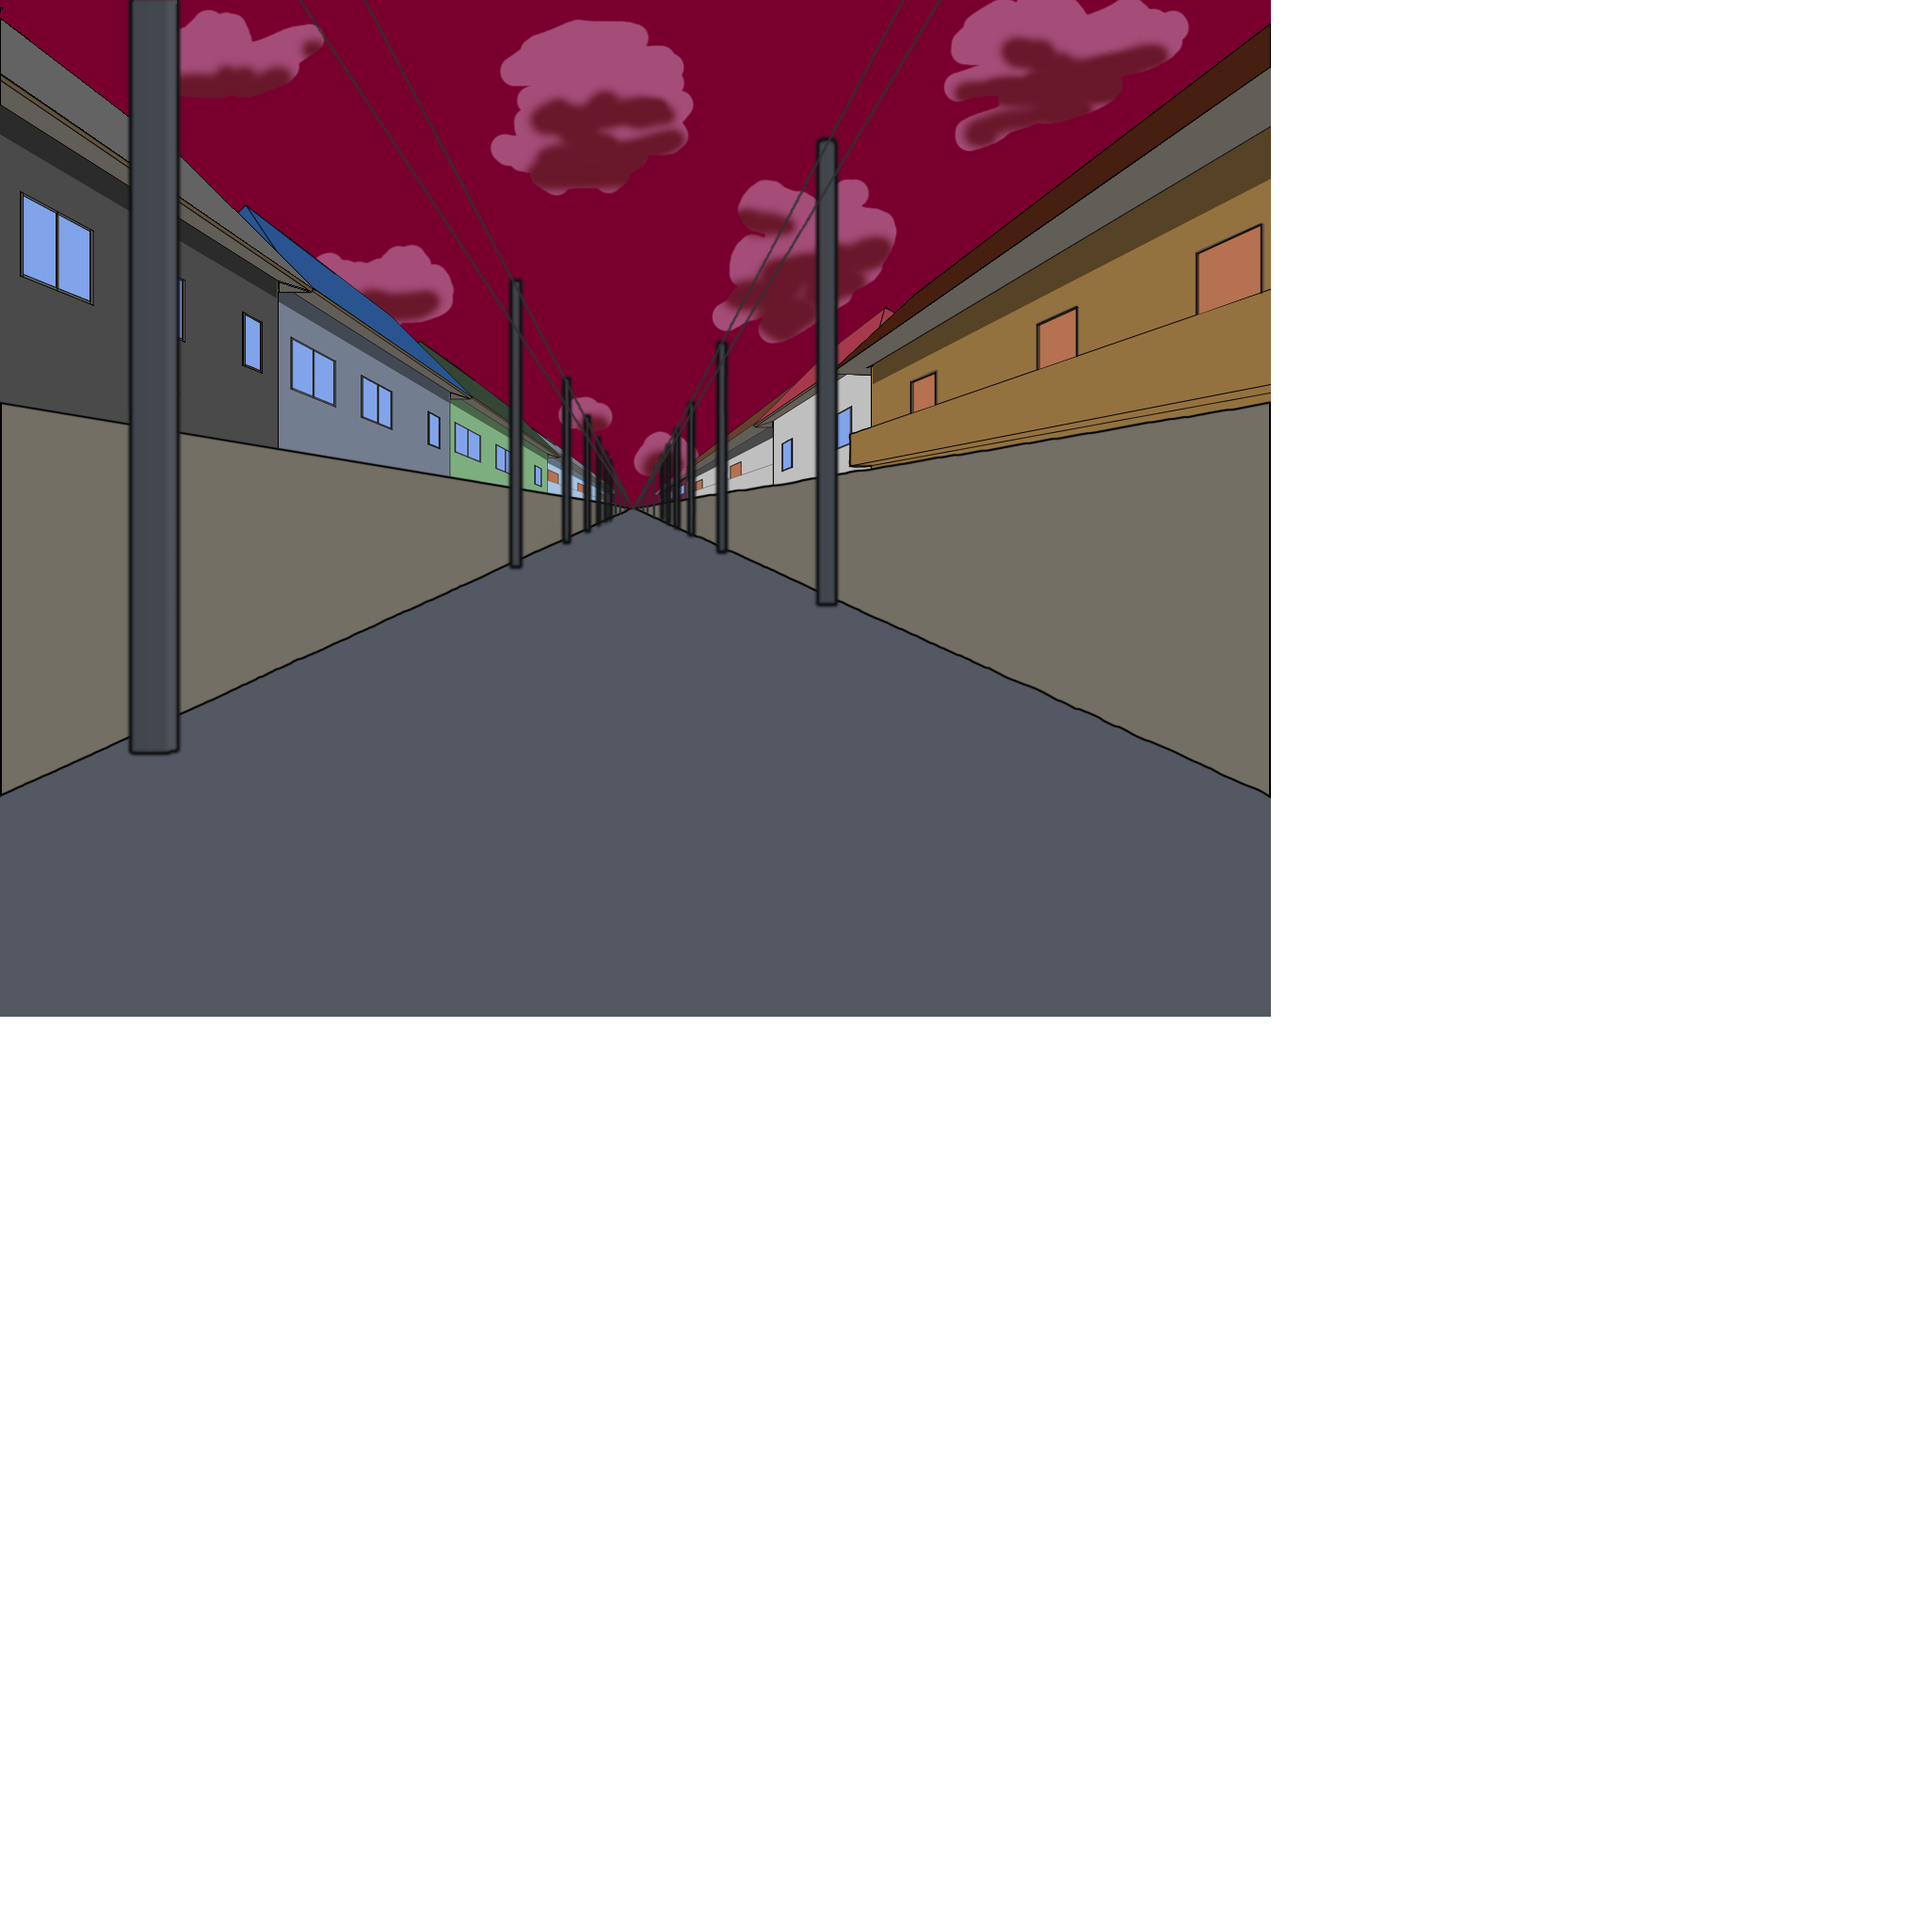
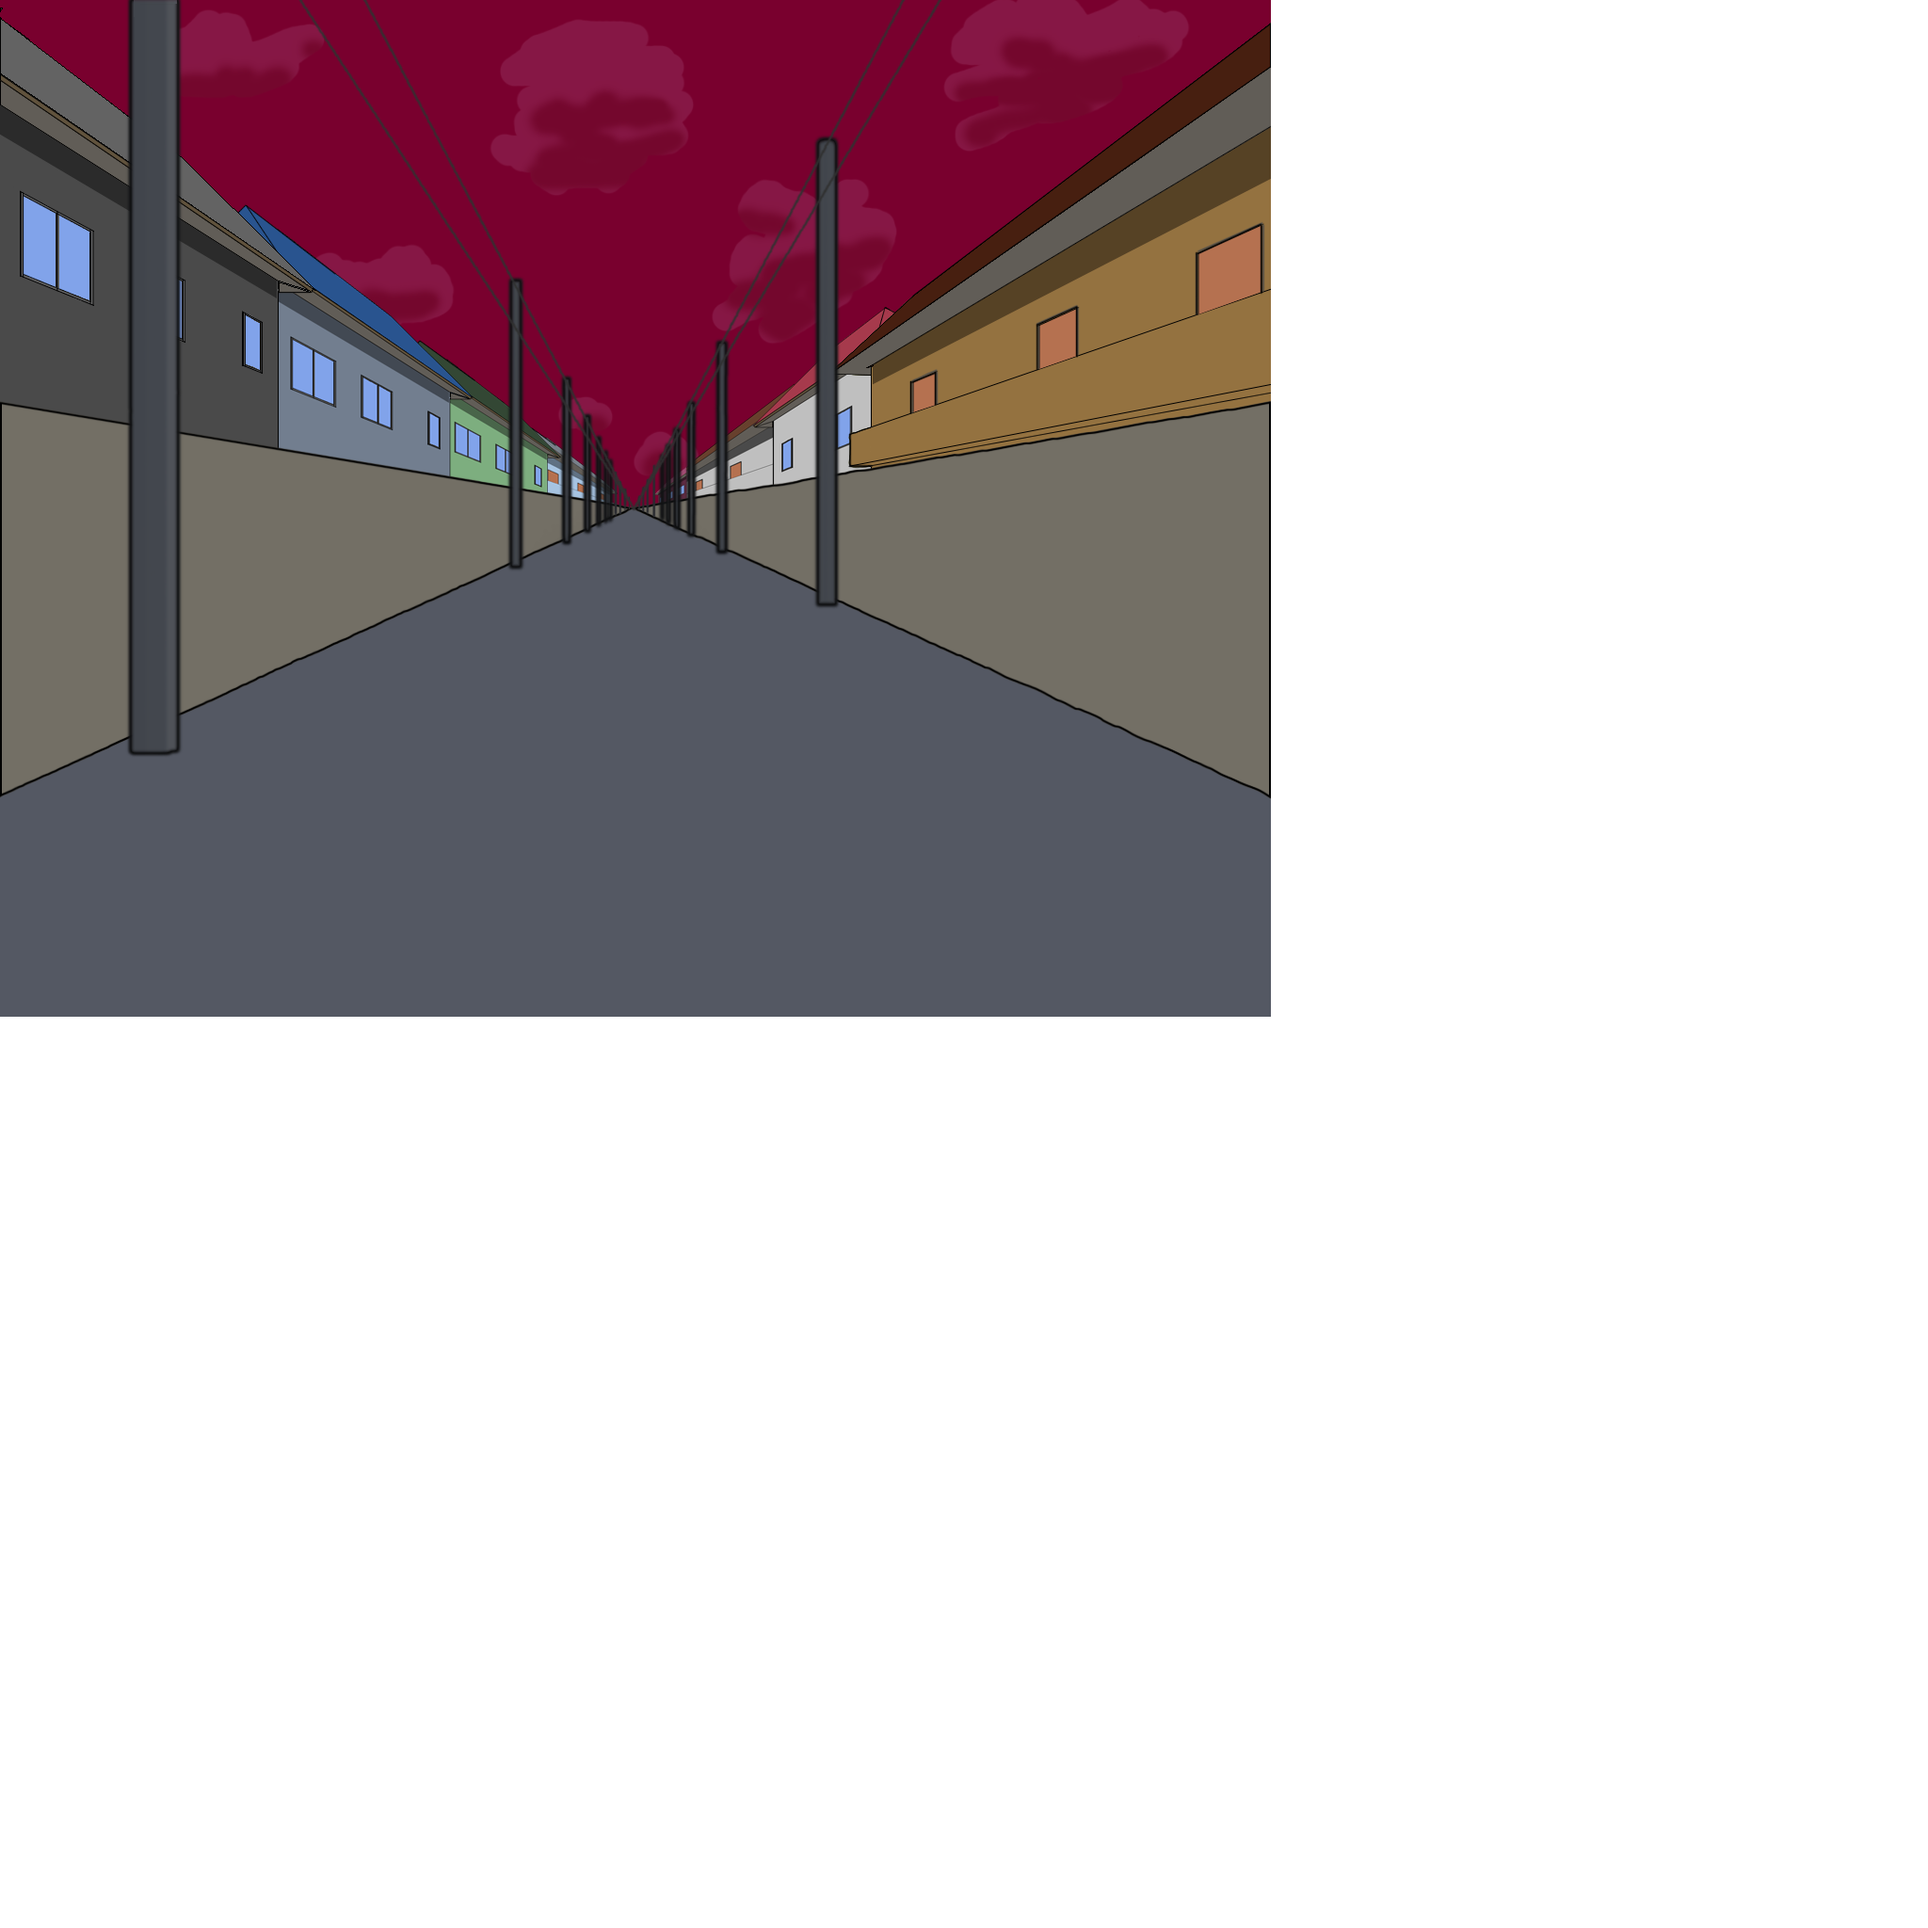
バックグラウンドの更新

diff --git a/FrameWork/FrameWork/Fighting/Main/SceneManager/SceneBase/GameScene/ObjectManager/ObjectBase/GameObjectBase/BackGround/BackGround.cpp b/FrameWork/FrameWork/Fighting/Main/SceneManager/SceneBase/GameScene/ObjectManager/ObjectBase/GameObjectBase/BackGround/BackGround.cpp
@@ -14,12 +14,17 @@ const D3DXVECTOR2 BackGround::m_Rect = D3DXVECTOR2(1350, 1080);
 
 
 BackGround::BackGround(int _textureIndex) :
-m_TextureIndex(_textureIndex)
+m_TextureIndex(_textureIndex),
+m_Alfa(1.f),
+m_Alfa2(1.f),
+m_Alfa3(0.f),
+m_Alfa4(0.f),
+m_Alfa5(0.f)
 {
-	//SINGLETON_INSTANCE(Lib::TextureManager).Load("Resource/test_009.png", &m_TextureIndex);
-	//SINGLETON_INSTANCE(Lib::TextureManager).Load("Resource/test_010.png", &m_TextureIndex);
-	//SINGLETON_INSTANCE(Lib::TextureManager).Load("Resource/test_011.png", &m_TextureIndex);
-	SINGLETON_INSTANCE(Lib::TextureManager).Load("Resource/test_003.png", &m_TextureIndex);
+	SINGLETON_INSTANCE(Lib::TextureManager).Load("Resource/test_009.png", &m_PurpleSky);
+	SINGLETON_INSTANCE(Lib::TextureManager).Load("Resource/test_010.png", &m_RedSky);
+	SINGLETON_INSTANCE(Lib::TextureManager).Load("Resource/test_011.png", &m_OrangeSky);
+	SINGLETON_INSTANCE(Lib::TextureManager).Load("Resource/test_003.png", &m_BlueSky);
 
 	RECT ClientRect = SINGLETON_INSTANCE(Lib::Window).GetWindowSize();
 	m_Pos = D3DXVECTOR2(static_cast<float>(ClientRect.right / 2), static_cast<float>(ClientRect.bottom / 2));
@@ -39,6 +44,11 @@ m_TextureIndex(_textureIndex)
 		m_WidthTime = 30;
 	});
 
+	m_pVertex2 = new Lib::Vertex2D(
+		SINGLETON_INSTANCE(Lib::DX11Manager).GetDevice(),
+		SINGLETON_INSTANCE(Lib::DX11Manager).GetDeviceContext(),
+		SINGLETON_INSTANCE(Lib::Window).GetWindowSize());
+	m_pVertex2->Init(&m_Rect, m_pAnimUvController->GetUV());
 }
 
 BackGround::~BackGround()
@@ -48,8 +58,19 @@ BackGround::~BackGround()
 		m_pVertex->Release();
 		Lib::SafeDelete(m_pVertex);
 	}
-	
+
+	if (m_pVertex2 != NULL)
+	{
+		m_pVertex2->Release();
+		Lib::SafeDelete(m_pVertex2);
+	}
+
 	Lib::SafeDelete(m_pAnimUvController);
+
+	SINGLETON_INSTANCE(Lib::TextureManager).ReleaseTexture(m_BlueSky);
+	SINGLETON_INSTANCE(Lib::TextureManager).ReleaseTexture(m_OrangeSky);
+	SINGLETON_INSTANCE(Lib::TextureManager).ReleaseTexture(m_RedSky);
+	SINGLETON_INSTANCE(Lib::TextureManager).ReleaseTexture(m_PurpleSky);
 }
 
 
@@ -59,10 +80,67 @@ BackGround::~BackGround()
 
 void BackGround::Update()
 {
+	m_EnemyLine = SINGLETON_INSTANCE(GameDataManager).GetCurrentEnemyLine();
+
+	//m_Alfa = m_AfterAlfa - m_BeforeAlfa;
+	if (m_EnemyLine > 14)
+	{
+		m_Alfa2 -= 0.001f;
+		m_Alfa3 += 0.001f;
+	}
+	if (m_EnemyLine == 14)
+	{
+		m_Alfa2 = 0.f;
+		m_Alfa3 = 1.f;
+	}
+	if (m_EnemyLine < 14 && m_EnemyLine > 8)
+	{
+		m_Alfa3 -= 0.001f;
+		m_Alfa4 += 0.001f;
+	}
+	if (m_EnemyLine == 8)
+	{
+		m_Alfa3 = 0.f;
+		m_Alfa4 = 1.f;
+	}
+	if (m_EnemyLine < 8 && m_EnemyLine > 2)
+	{
+		m_Alfa4 -= 0.001f;
+		m_Alfa5 += 0.001f;
+	}
+	if (m_EnemyLine == 2)
+	{
+		m_Alfa4 = 0.f;
+		m_Alfa5 = 1.f;
+	}
 }
 
 void BackGround::Draw()
 {
 	Vibration();
 	m_pVertex->Draw(&D3DXVECTOR2(m_Pos.x + m_WidthVibValue, m_Pos.y), m_pAnimUvController->GetUV());
+	if (m_EnemyLine >= 14)
+	{
+		m_pVertex->Draw(&D3DXVECTOR2(m_Pos.x + m_WidthVibValue, m_Pos.y), m_pAnimUvController->GetUV(), m_Alfa2);
+		m_pVertex->SetTexture(
+			SINGLETON_INSTANCE(Lib::TextureManager).GetTexture(m_PurpleSky));
+	}
+	if (m_EnemyLine >= 8)
+	{
+		m_pVertex2->Draw(&D3DXVECTOR2(m_Pos.x + m_WidthVibValue, m_Pos.y), m_pAnimUvController->GetUV(), m_Alfa3);
+		m_pVertex2->SetTexture(
+			SINGLETON_INSTANCE(Lib::TextureManager).GetTexture(m_RedSky));
+	}
+	if (m_EnemyLine <= 14 && m_EnemyLine >= 8)
+	{
+		m_pVertex->Draw(&D3DXVECTOR2(m_Pos.x + m_WidthVibValue, m_Pos.y), m_pAnimUvController->GetUV(), m_Alfa4);
+		m_pVertex->SetTexture(
+			SINGLETON_INSTANCE(Lib::TextureManager).GetTexture(m_OrangeSky));
+	}
+	if (m_EnemyLine <= 8 && m_EnemyLine >= 0)
+	{
+		m_pVertex2->Draw(&D3DXVECTOR2(m_Pos.x + m_WidthVibValue, m_Pos.y), m_pAnimUvController->GetUV(), m_Alfa5);
+		m_pVertex2->SetTexture(
+			SINGLETON_INSTANCE(Lib::TextureManager).GetTexture(m_BlueSky));
+	}
 }

diff --git a/FrameWork/FrameWork/Fighting/Main/SceneManager/SceneBase/GameScene/ObjectManager/ObjectBase/GameObjectBase/BackGround/BackGround.h b/FrameWork/FrameWork/Fighting/Main/SceneManager/SceneBase/GameScene/ObjectManager/ObjectBase/GameObjectBase/BackGround/BackGround.h
@@ -8,6 +8,7 @@
 #include "Vertex2D/Vertex2D.h"
 #include "Animation/AnimUvController.h"
 #include "../GameObjectBase.h"
+#include "../../../../../GameDataManager/GameDataManager.h"
 
 class BackGround : public GameObjectBase
 {
@@ -38,10 +39,21 @@ private:
 
 	Lib::AnimUvController* m_pAnimUvController;
 	Lib::Vertex2D*		   m_pVertex;
+	Lib::Vertex2D*		   m_pVertex2;
 	D3DXVECTOR2			   m_Pos;
 	int					   m_TextureIndex;
 
-};
+	int					   m_BlueSky;
+	int					   m_PurpleSky;
+	int					   m_OrangeSky;
+	int					   m_RedSky;
 
+	int					   m_EnemyLine;
+	float				   m_Alfa;
+	float				   m_Alfa2;
+	float				   m_Alfa3;
+	float				   m_Alfa4;
+	float				   m_Alfa5;
+};
 
 #endif

diff --git a/FrameWork/FrameWork/Fighting/Main/SceneManager/SceneBase/GameScene/ObjectManager/ObjectManager.cpp b/FrameWork/FrameWork/Fighting/Main/SceneManager/SceneBase/GameScene/ObjectManager/ObjectManager.cpp
@@ -19,7 +19,7 @@
 ObjectManager::ObjectManager()
 {
 	SINGLETON_INSTANCE(Lib::TextureManager).Load("Resource/test_001.png", &m_TextureIndex1);
-	SINGLETON_INSTANCE(Lib::TextureManager).Load("Resource/test_003.png", &m_TextureIndex3);
+	SINGLETON_INSTANCE(Lib::TextureManager).Load("Resource/test_009.png", &m_TextureIndex3);
 	SINGLETON_CREATE(KnifeManager);
 	SINGLETON_INSTANCE(KnifeManager).Init(m_TextureIndex1);
 
